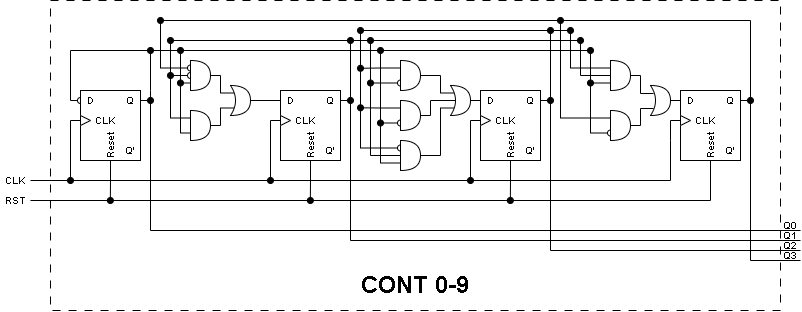
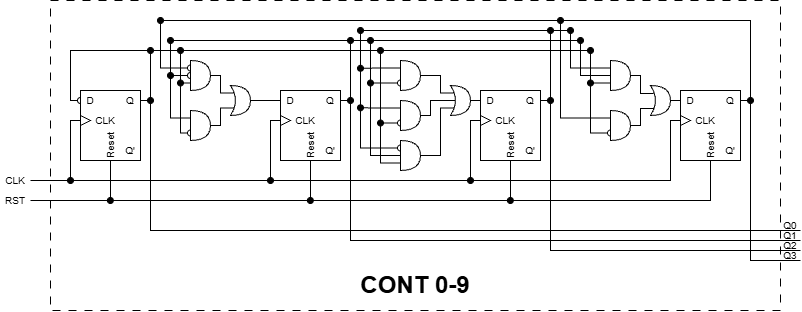
+ ej7 (parte 2)

diff --git a/practico/practico5/ej7.md b/practico/practico5/ej7.md
@@ -1,4 +1,4 @@
-# Construir un cronómetro: calidad éxamen
+# Construir un cronómetro: calidad examen
 
 **Fecha:** 16-10-2026
 
@@ -15,9 +15,9 @@ Para construir el sistema se cuenta con una señal de reloj de 1Hz.
 1. Implementar un contador del 0-9 y un contador de 0-6 con el reset que considere correspondiente, utilizando flip-flops tipo D.
 2. Resolver el circuito planteado a partir de los contadores diseñados en la parte a, módulos display 7 segmentos (1 dígito cada módulo) y compuertas básicas.
 3. Modifique el circuito anterior agregando la siguiente funcionalidad: el circuito ahora cuenta con dos botones:
-    - El botón reset previamente descripto
-    - Un botón incrementar que incrementa el tiempo a razón de 1 minuto por cada segundo que el botón esté presionado. Mientras que se está pulsando este botón los segundos no deben incrementarse
-    Mientras el botón incrementar no esté presionado, el circuito debe funcionar normalmente.
+   - El botón reset previamente descripto
+   - Un botón incrementar que incrementa el tiempo a razón de 1 minuto por cada segundo que el botón esté presionado. Mientras que se está pulsando este botón los segundos no deben incrementarse
+     Mientras el botón incrementar no esté presionado, el circuito debe funcionar normalmente.
 
 ## Resolución
 
@@ -68,7 +68,7 @@ Y por lo tanto $D2=Q2Q1'+Q2'Q1Q0+Q2Q0'$
 
 ![Figura 4](./img/ej7fig4.png)
 
-Y por lo tanto $D1=Q3'Q1'Q0+Q1Q0$
+Y por lo tanto $D1=Q3'Q1'Q0+Q1Q0'$
 
 **D0**:
 
@@ -80,7 +80,7 @@ Resumimos todo en las siguientes expresiones:
 
 - $D3=Q3Q0'+Q2Q1Q0$
 - $D2=Q2Q1'+Q2'Q1Q0+Q2Q0'$
-- $D1=Q3'Q1'Q0+Q1Q0$
+- $D1=Q3'Q1'Q0+Q1Q0'$
 - $D0=Q0'$
 
 Esto nos permite construir el circuito que es el siguiente:
@@ -126,16 +126,6 @@ Y por lo tanto $D1=Q2'Q1'Q0+Q1Q0'$
 
 Y por lo tanto $D0=Q0'$
 
-$$
-\begin{array}{c|c|c|c|c}
-\text{Q2}/\text{Q1Q0}&00&01&11&10\\
-\hline
-0&1&&&1\\
-\hline
-1&1&&X&X\\
-\end{array}
-$$
-
 Resumimos todo en las siguientes expresiones:
 
 - $D2=Q2Q0'+Q1Q0$
@@ -149,3 +139,22 @@ Esto nos permite construir el circuito que es el siguiente:
 ---
 
 **Aclaración:** Si bien uno intenta no equivocarse en ninguna de estas tareas... Es bastante sencillo hacerlo; un 1 en un lugar incorrecto resulta en un circuito totalmente distinto que no cumple la función que queremos que cumpla. Tener esto en cuenta para no tomar el circuito como válido automáticamente
+
+### Parte 2
+
+- Resolver el circuito planteado a partir de los contadores diseñados en la parte a, módulos display 7 segmentos (1 dígito cada módulo) y compuertas básicas.
+
+Para esta parte el desafío es entender cuando se activa qué contador. Empecemos por lo más sencillo: claramente necesitamos 2 contadores 0-5 (para las decenas) y 2 contadores 0-9 (para las unidades).
+Estos contadores se separan en dos grupos: 1 contador 0-5 + 1 contador 0-9 conforman el contador de segundos; mientras que los restantes conforman el contador de minutos.
+
+El siguiente paso es entender cuando "activar" (con la señal CLK) el contador de las decenas. Esto lo querremos hacer cada vez que el contador de las unidades llegue a 9, por lo que nuestro circuito debe reflejar este comportamiento con compuertas básicas.
+
+El último paso es entender cuando "activar" el contador de minutos. De forma similar al caso anterior queremos hacerlo cuando el contador de segundos llega a 59.
+
+A continuación se muestra el circuito diseñado:
+
+![Figura 11](./img/ej7fig11.png)
+
+**Nota:** La construcción se basa principalmente en las observaciones "teóricas" que hicimos antes. El único detalle que puede confundir es: por qué usamos las compuertas NAND en vez de las AND?
+La respuesta es sencilla, y es que CLK conecta con los flip-flops, y estos no se fijan cuando la entrada CLK **es** 1, sino en cuando la entrada CLK **pasa** de 0 a 1 (flanco ascendente).
+En este caso (miremos el primer NAND), cuando el contador de 0-9 llegue a 9, el NAND valdrá 0, para pasar a 1 cuando el contador vuelva a 0: esto genera el flanco ascendente activando el contador 0-5.
